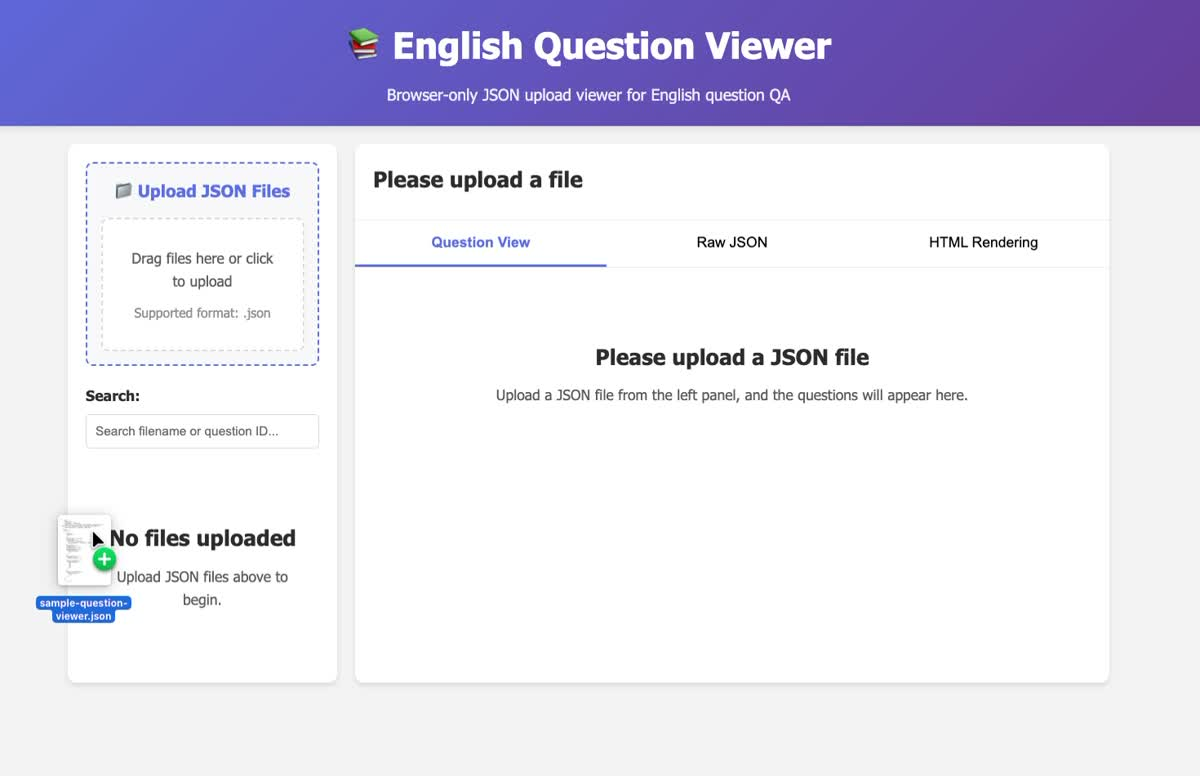
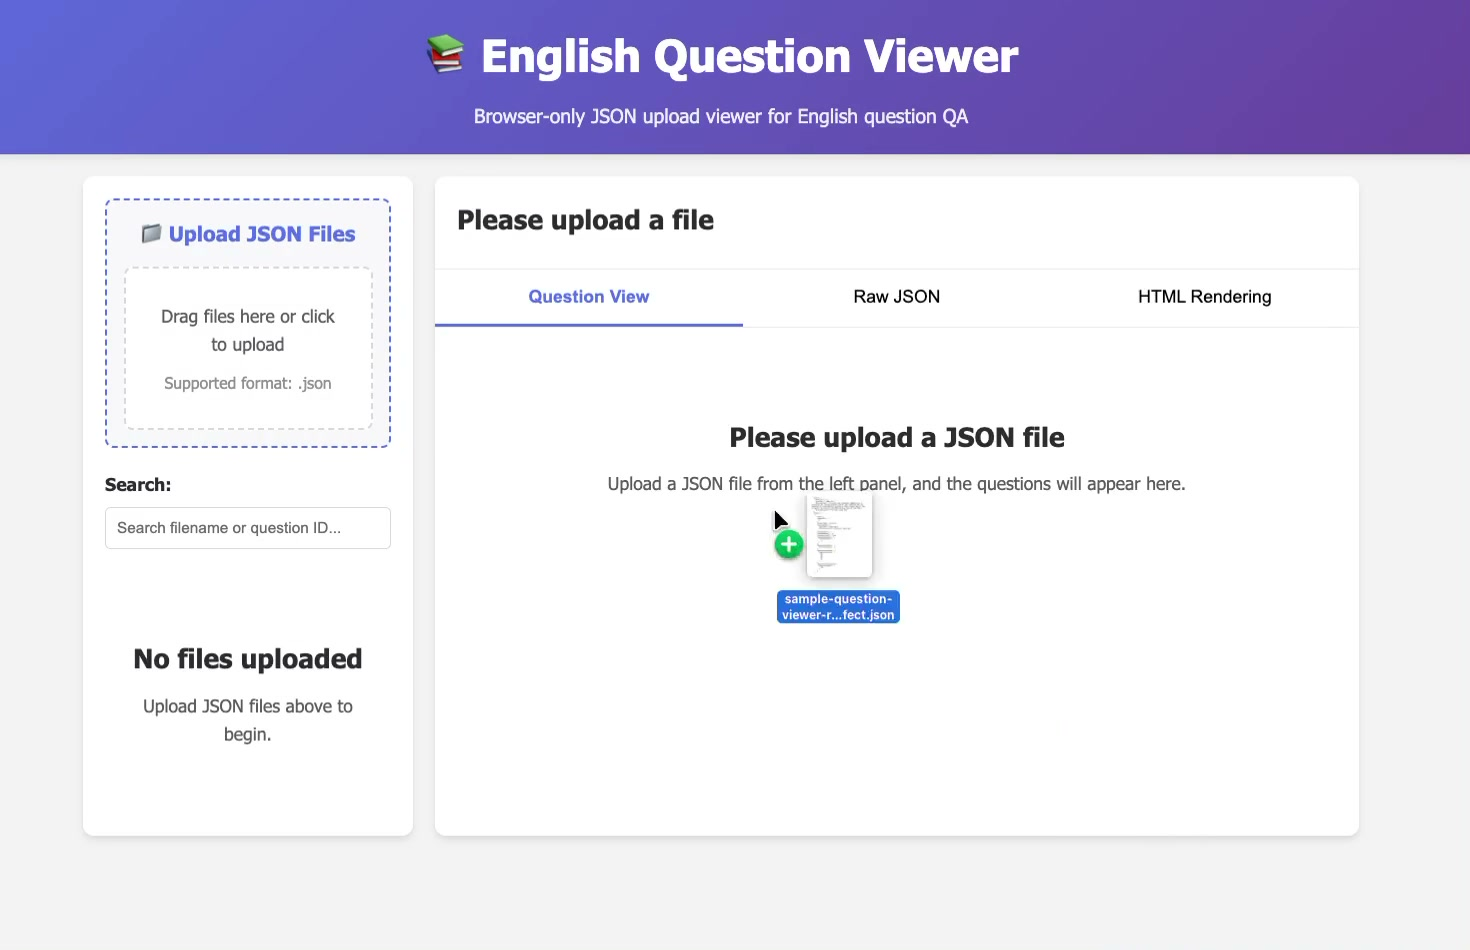
docs: update English exam QC viewer walkthrough

Changed region(s): [[0.5242, 0.5258, 0.6167, 0.6804], [0.0308, 0.6495, 0.1233, 0.8041]]

diff --git a/projects/english-exam-dx/index.html b/projects/english-exam-dx/index.html
@@ -55,11 +55,11 @@
     <p>The downloaded CSV of workers’ tagged output did not preserve the original printed question numbers. What it did contain was position-based data for the questions that were actually processed: each item’s processed order across the full PDF and its processed order within the page. Because duplicates, out-of-scope items, and incomplete questions were excluded, those processed-order indices did not always match the workbook’s printed numbering. I used that structure, together with workbook-level total counts and processed-item counts, to trace a mismatch from an entire delivery down to a specific workbook, page, and question position.</p>
     <p>Once that matching structure existed, the next question became possible: did the output actually render correctly for the client? I asked the platform team to build a QC viewer, but they declined, citing limited resources. Since QC could not wait, I built one myself using Cursor AI. There was no company GitHub account, so I hosted it on my personal account, and designed it to be browser-only so data never left the local environment. This let us catch rendering defects before delivery instead of after.</p>
     <figure>
-      <video controls playsinline preload="metadata" poster="../../assets/images/english-exam-dx/qc-viewer-walkthrough-poster.jpg" aria-label="QC Web Viewer walkthrough showing structured question view, raw JSON, and HTML rendering comparison">
+      <video controls playsinline preload="metadata" poster="../../assets/images/english-exam-dx/qc-viewer-walkthrough-poster.jpg" aria-label="QC Web Viewer walkthrough showing a rendered HTML table defect that is hard to catch in raw JSON">
         <source src="../../assets/videos/english-exam-dx/qc-viewer-walkthrough.mp4" type="video/mp4">
         Your browser does not support the video tag.
       </video>
-      <figcaption>QC Web Viewer walkthrough: structured question view, raw JSON, and HTML rendering comparison</figcaption>
+      <figcaption>QC Web Viewer walkthrough: catching a rendered HTML table defect that is hard to spot in raw JSON</figcaption>
     </figure>
     <h3 id="capacity-chain">Capacity chain</h3>
     <p>Answer-sheet layouts varied by publisher: single-column and two-column layouts, boxed numbers, and mixed answer/explanation formats. The task was not just OCR. Each answer-sheet entry had to be converted into structured CSV fields: its visual layout column, the answer value itself, such as a multiple-choice option number or a short-answer word or sentence, and the corresponding explanation. Basic OCR with Tesseract, an open-source text-recognition engine, could extract text, but it could not reliably separate those fields or preserve the layout relationships. I used Gemini Vision Pro, grouped similar layouts into batches, had reviewers check first-pass extraction, and fed that feedback into the next prompt/schema iteration. Manual PM copying became a repeatable pipeline.</p>